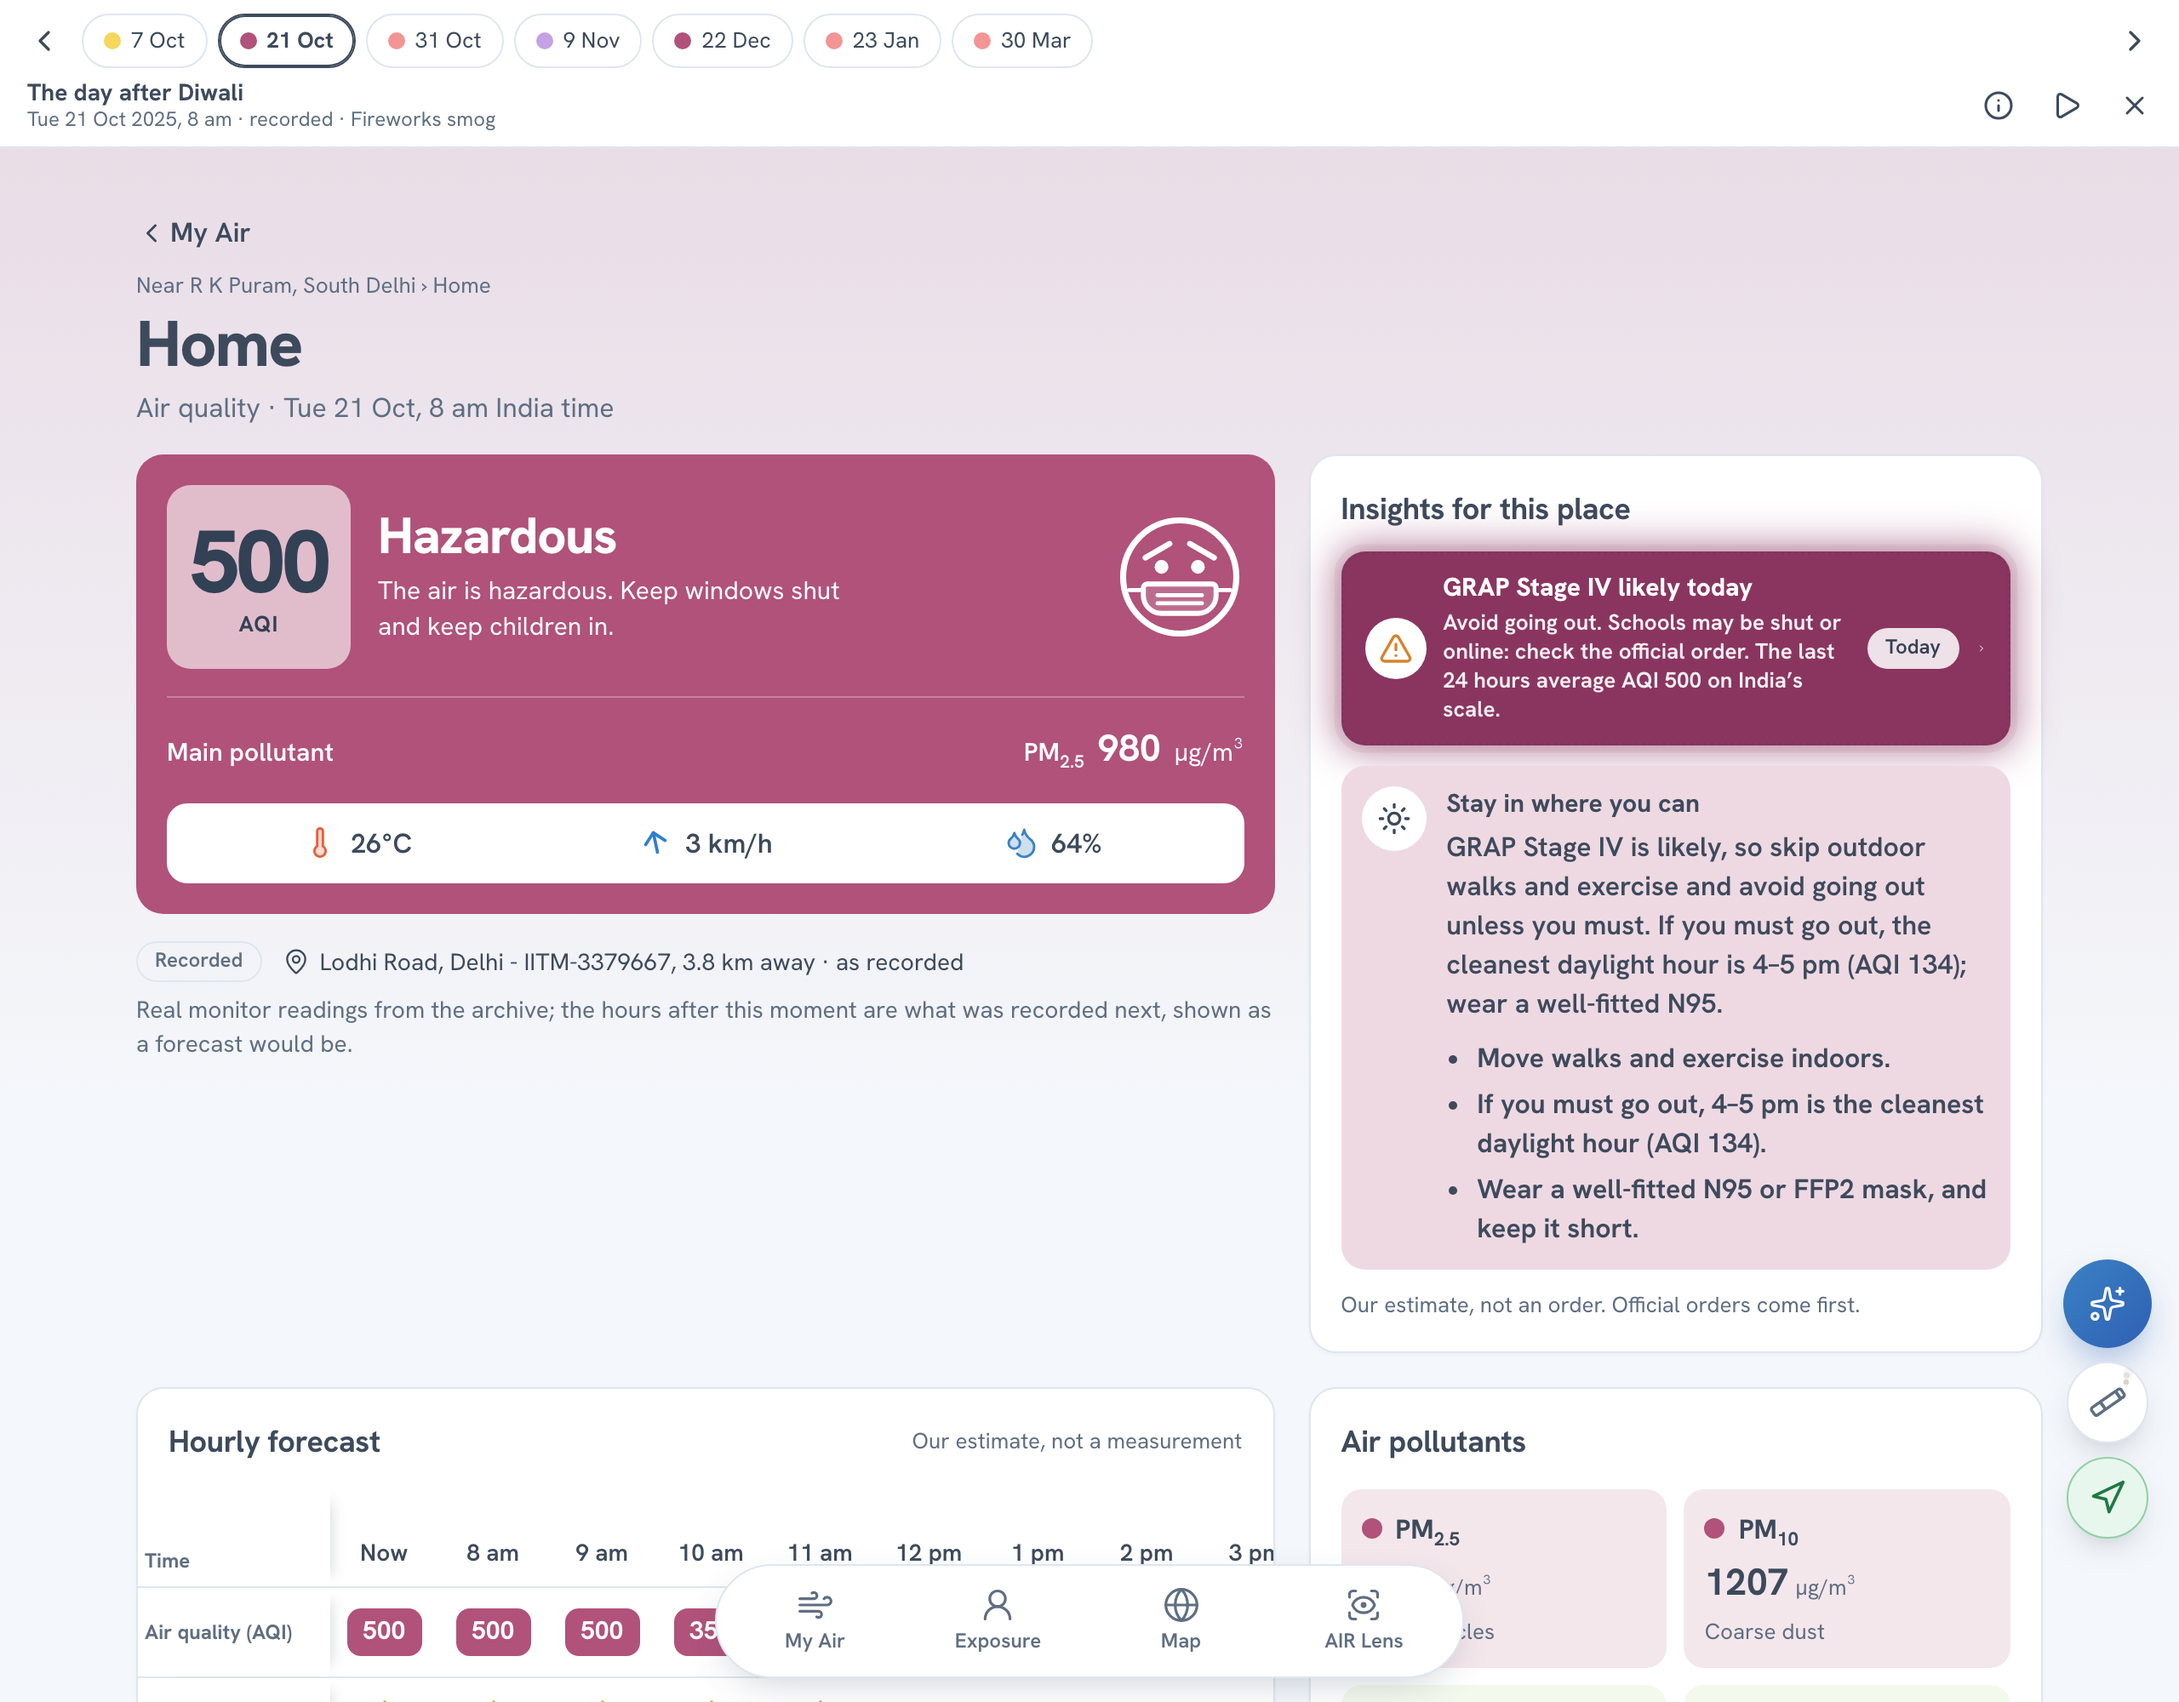
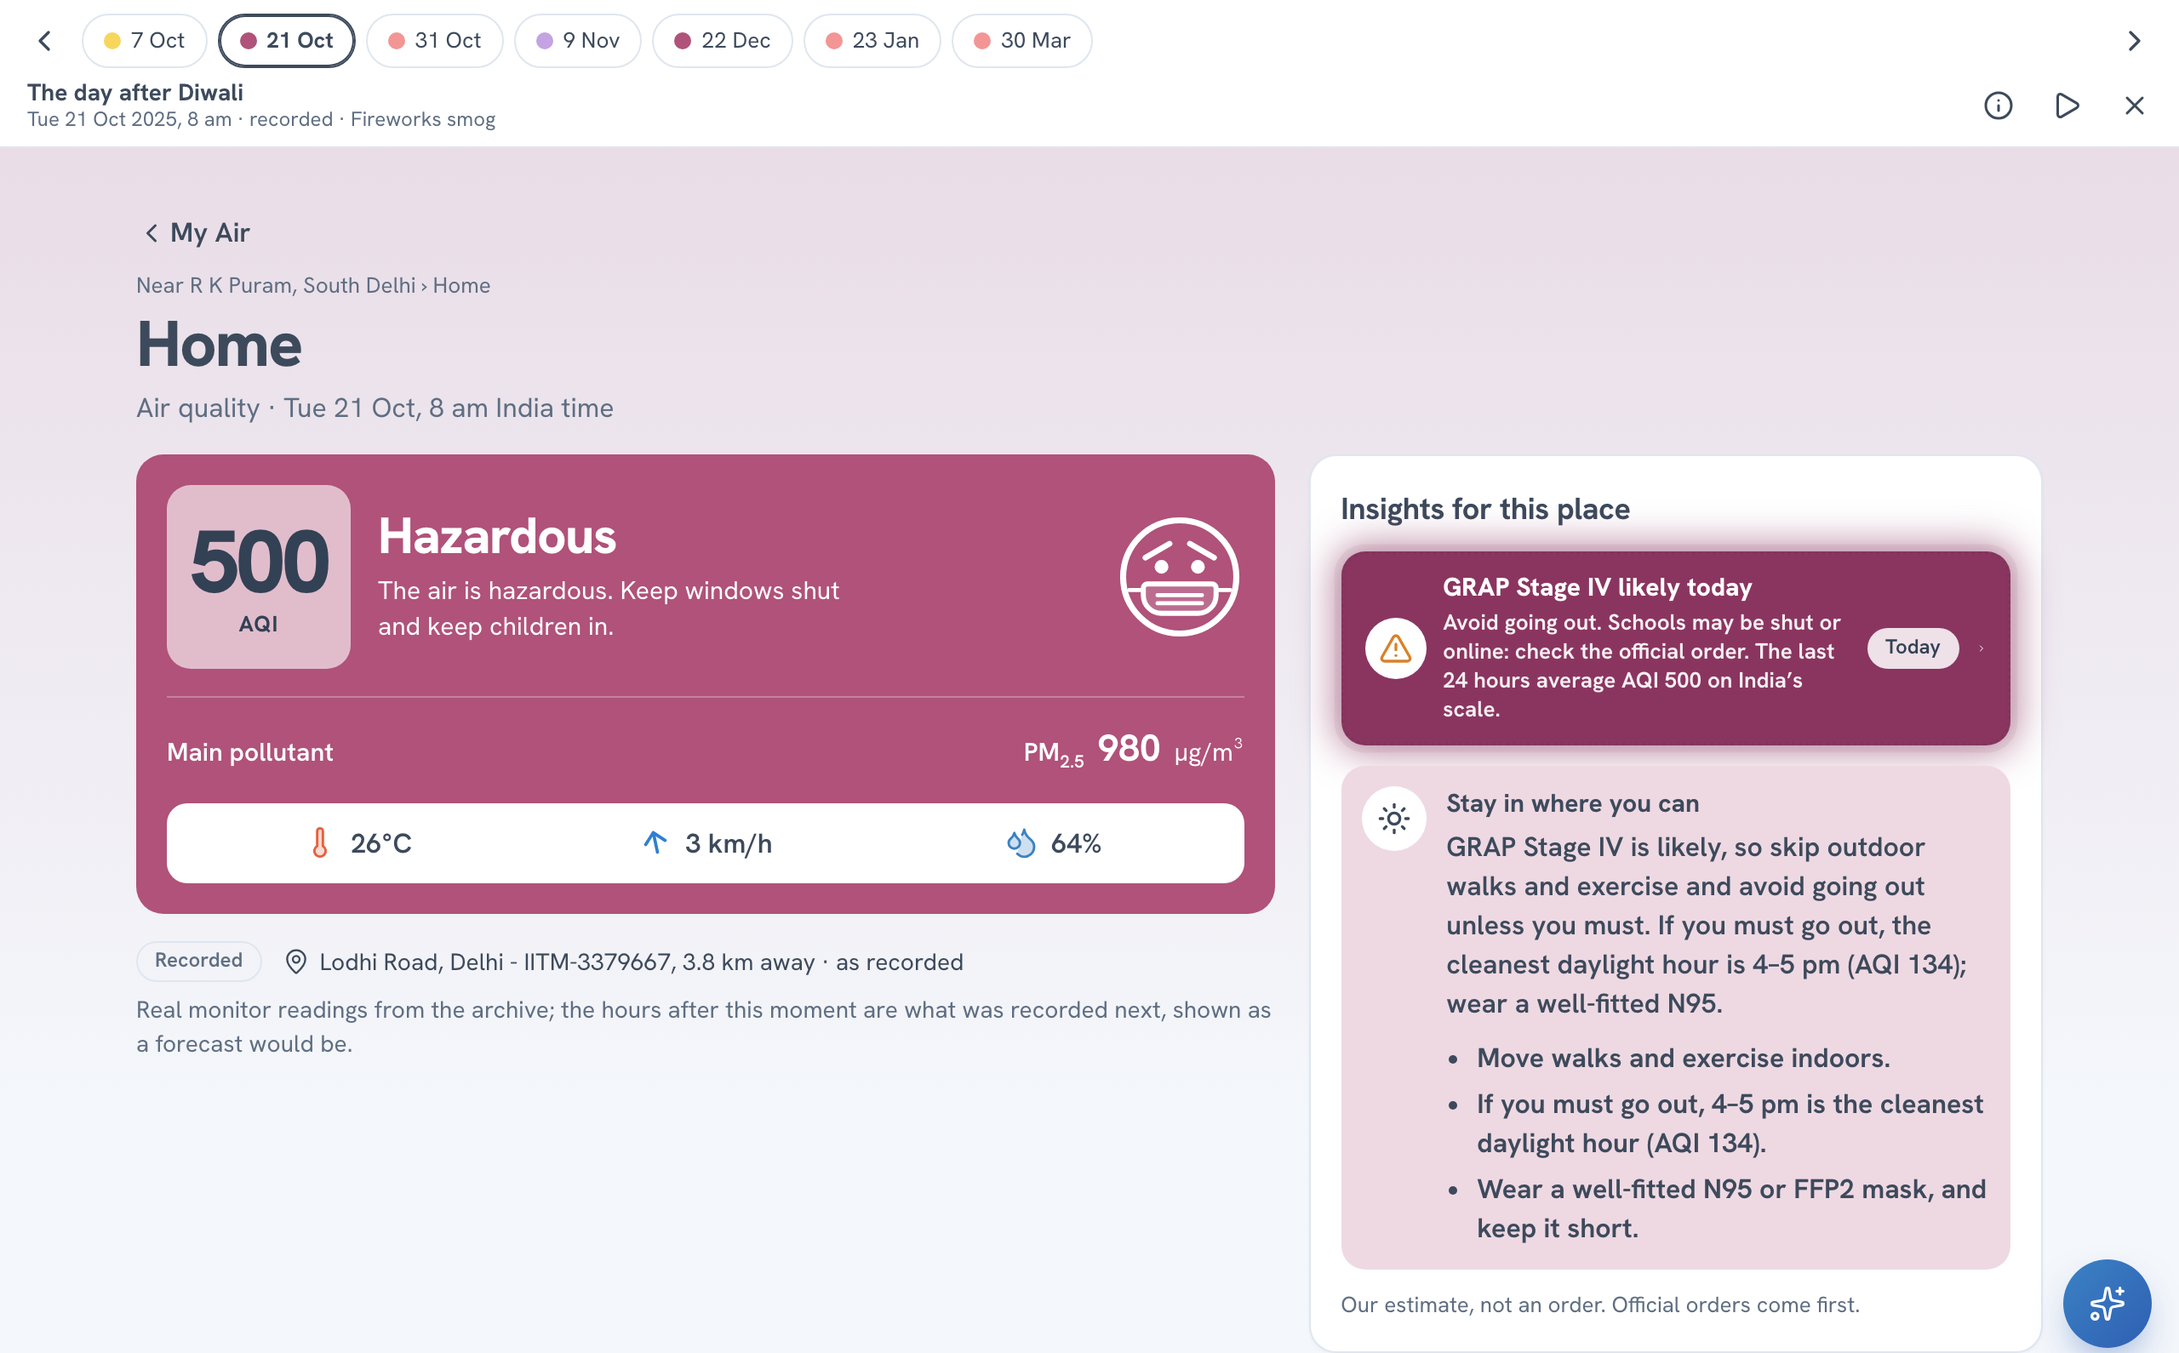
Blog: round 3 edits; place screenshot cropped above the hourly table

diff --git a/docs/blog.md b/docs/blog.md
@@ -2,7 +2,7 @@
 
 Picture a parent in South Delhi at 8 am on 21 October 2025, the morning after Diwali. The phone shows one city-wide Air Quality Index (AQI) figure. The child's bag is by the door. The question is small: do we walk to school, or not?
 
-The parent is a picture I use to keep the app honest, and the morning is real. The nearest monitor with a fresh reading that day, Lodhi Road, 3.8 km from the spot I had set as "Home" (near R K Puram), read 500, the top of the US AQI scale the card uses, with PM2.5 (fine particles) at 980 µg/m³. On India's scale the last 24 hours also averaged 500. The app added what to do: stay in where you can, and if you must go out, 4 to 5 pm is the cleanest daylight hour, at AQI 134.
+The parent is made up; the morning is real. The nearest monitor with a fresh reading that day, Lodhi Road, 3.8 km from the spot I had set as "Home" (near R K Puram), read 500, the top of the US AQI scale the card uses, with PM2.5 (fine particles) at 980 µg/m³. On India's scale the last 24 hours also averaged 500. The app added what to do: stay in where you can, and if you must go out, 4 to 5 pm is the cleanest daylight hour, at AQI 134.
 
 ![Home on the recorded morning after Diwali: AQI 500, the monitor's name and distance, and advice for this place](images/02b-place-insights-desktop.png)
 _The recorded morning after Diwali, 21 Oct 2025, 8 am. The card names the monitor (Lodhi Road, 3.8 km away) and says "as recorded". The alert row, "GRAP Stage IV likely today", is my estimate from the last 24 hours' average AQI of 500 (GRAP is Delhi's Graded Response Action Plan, the official pollution stages), and the card adds that official orders come first._
@@ -11,14 +11,16 @@ Delhi has plenty of air-quality numbers. A city figure cannot see one street or 
 
 ## What it is
 
-You add the places you care about: Home, a school, an office, a park. A usual dashboard shows the city's number. Each card here shows the air from the monitor nearest that place, with its name, distance and age, the weather, and what to do about it.
+You add the places you care about: Home, a school, an office, a park. Each card shows the air from the nearest monitor with a fresh reading (its name, distance and age), the weather, and what to do about it.
 
-Around My Air are a map of monitors, wind and satellite fires, AIR Lens (the air drawn as particles in front of your camera), an assistant, and Exposure, which adds up what a person breathed, hour by hour. "Nearest" means the nearest monitor with a fresh reading, and the card says how far it is.
+Around My Air are a map of monitors, wind and satellite fires, AIR Lens (the air drawn as particles in front of your camera), an assistant, and Exposure, which adds up what a person breathed, hour by hour.
 
 ![Six screens of the app](images/collage-features.jpg)
 _The six screens. Top row: My Air on live data with the preset's places; the recorded days on 21 Oct 2025, where the alert is GRAP Stage IV, the app's estimate from the last 24 hours; the map on 31 Oct 2025 with NASA satellite fire detections and wind. Bottom row: AIR Lens; the assistant; Exposure. All but My Air on live data are from the recorded days._
 
-A small measuring unit, an ESP32-S3 board with a Sensirion SPS30 laser particle sensor, adds the air in one room over Bluetooth. I built the whole thing alone, with an AI coding assistant (Claude Code). I chose what it should do and what it must never claim. The assistant wrote most of the code, and I read every change and sent it back when it was wrong. I wired, flashed and tested the unit and built the cleaner myself. The stack runs in my own AWS account.
+A small measuring unit, an ESP32-S3 board with a Sensirion SPS30 laser particle sensor, adds the air in one room over Bluetooth.
+
+I built the whole thing alone, with an AI coding assistant (Claude Code). I chose what it should do and what it must never claim. The assistant wrote most of the code, and I read every change and sent it back when it was wrong. I wired, flashed and tested the unit and built the cleaner myself. The stack runs in my own AWS account.
 
 ## The one rule: code decides, AI only words
 
@@ -53,7 +55,7 @@ A handheld vane anemometer at the outlet read about 191 cubic feet per minute, a
 [![The anemometer at the cleaner's outlet reading 191 CFM](images/build/purifier-6-airflow-191cfm.jpg)](images/build/airflow-proof.mp4)
 _A 5-second video (click the picture to play it): a handheld vane anemometer at the cleaner's outlet, reading about 191 CFM at 29.4 °C and 63.1 % RH. Airflow, not CADR._
 
-CADR (clean air delivery rate), the number purifiers are rated by, also depends on how many particles each pass removes, and it is measured by watching a room's particles fall with the cleaner off and then on. I have not run that test, and I have not measured the filter's efficiency, the noise or the power. The cleaner is a prototype that does not switch itself on by what the unit reads.
+CADR (clean air delivery rate), the number purifiers are rated by, also depends on how many particles each pass removes, and it is measured by watching a room's particles fall with the cleaner off and then on. I have not run that test, and I have not measured the filter's efficiency, the noise or the power. Nothing switches it on automatically: the unit's readings do not control it.
 
 ## Why each AWS service is there
 
